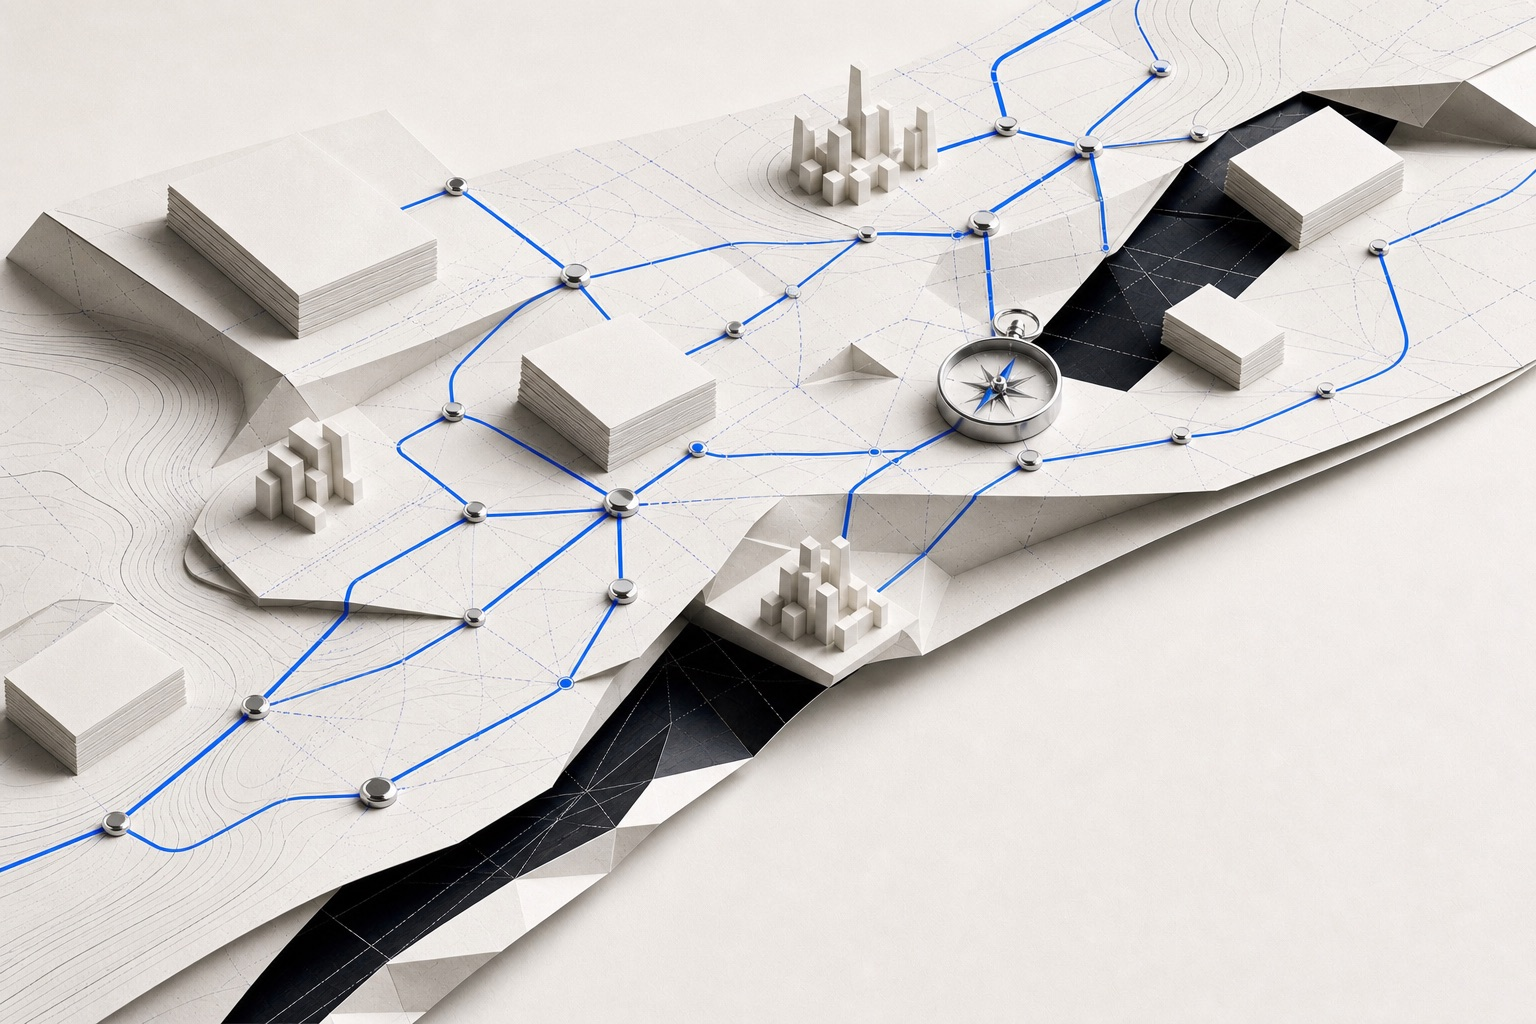
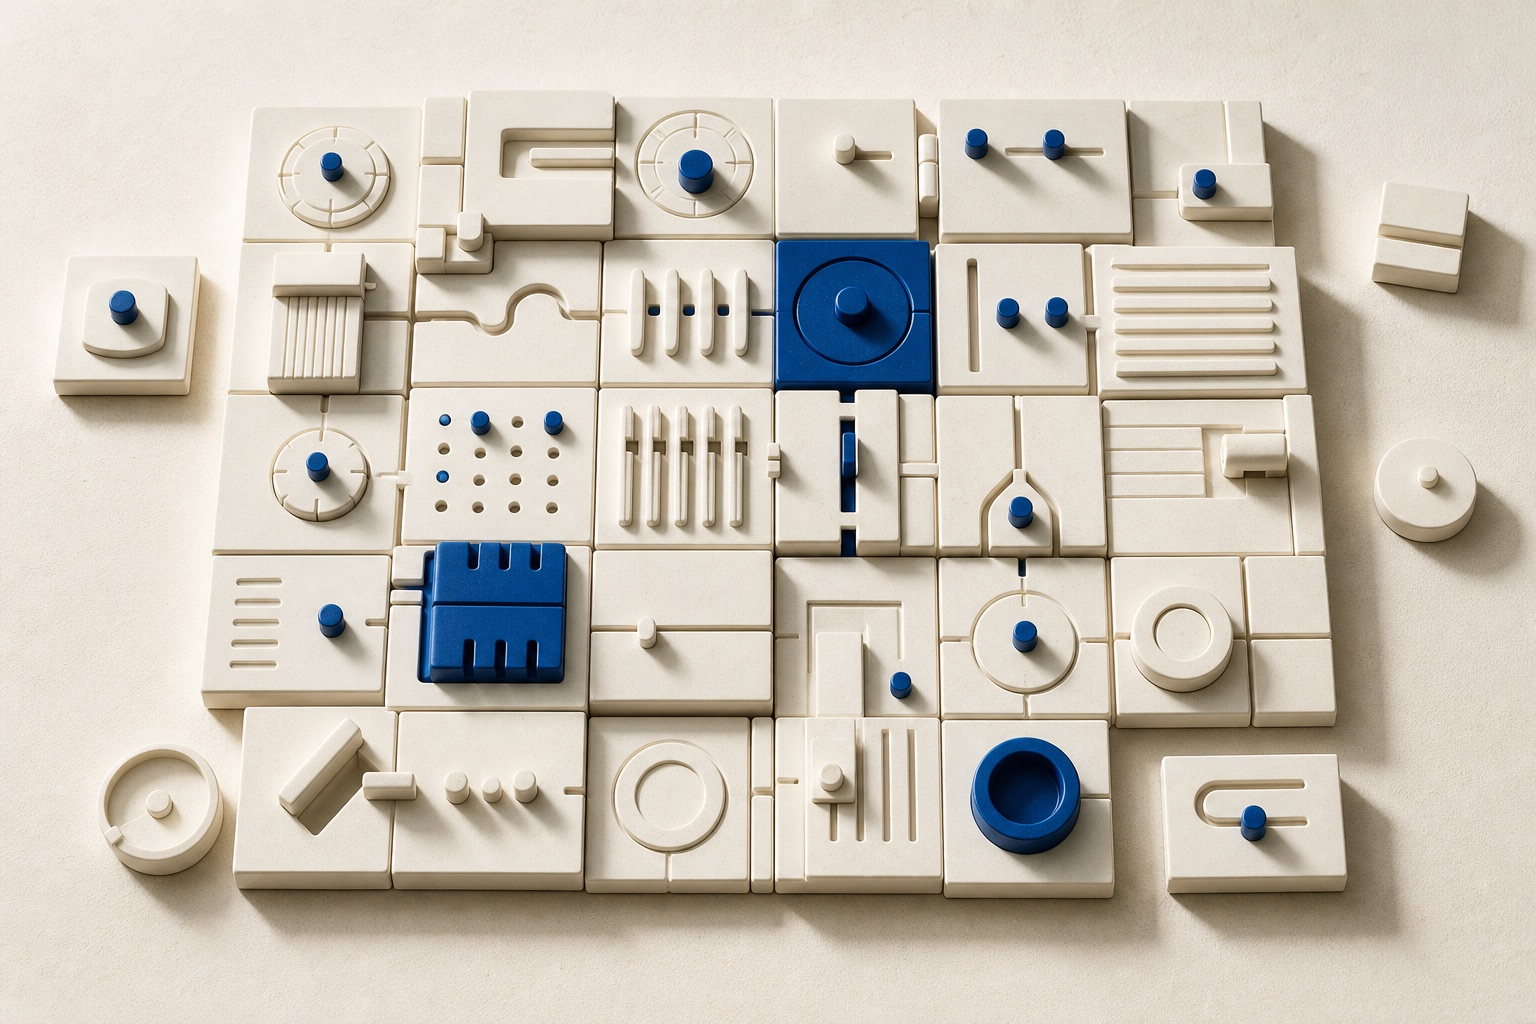
Replace map artwork with distinct editorial visuals

diff --git a/src/client/pages/MarketingDetailPage.tsx b/src/client/pages/MarketingDetailPage.tsx
@@ -407,8 +407,8 @@ export function MarketingDetailPage() {
                   src={editorialImage}
                   alt={
                     section === 'getting-started'
-                      ? 'A blue route climbs through growing paper business districts toward a compass'
-                      : 'An operational paper network linking work, teams, and destinations'
+                      ? 'Chrome spheres progress upward along a monumental cobalt staircase'
+                      : 'A modular field of tactile controls representing a connected operating system'
                   }
                   width="1536"
                   height="1024"
@@ -488,7 +488,7 @@ function PricingContent({ account }: { account: AccountSessionDto | null }) {
       <section className="relative min-h-[500px] overflow-hidden border border-edge bg-sheet px-6 py-10 sm:px-10 sm:py-14">
         <img
           src="/editorial/atlas-growth-journey.jpg"
-          alt="A blue route rises across paper terraces toward a polished compass"
+          alt="Chrome spheres progress upward along a monumental cobalt staircase"
           width="1536"
           height="1024"
           className="absolute inset-0 h-full w-full object-cover object-center"

diff --git a/src/client/pages/LandingPage.tsx b/src/client/pages/LandingPage.tsx
@@ -121,14 +121,14 @@ export function LandingPage() {
             <figure className="relative min-h-[360px] overflow-hidden border border-edge bg-sheet shadow-[14px_14px_0_var(--color-ink)] sm:min-h-[460px] lg:-mr-10">
               <img
                 src="/editorial/atlas-home-hero.jpg"
-                alt="A sculptural paper map connecting business districts with blue routes and compasses"
+                alt="A cobalt modular filing machine organizing paper through trays and metal rails"
                 width="1536"
                 height="1024"
                 fetchPriority="high"
                 className="absolute inset-0 h-full w-full object-cover object-center transition-transform duration-700 hover:scale-[1.025]"
               />
               <figcaption className="absolute bottom-0 left-0 border-r border-t border-white/35 bg-ink/90 px-4 py-3 font-mono text-[10px] uppercase tracking-[0.12em] text-white/75 backdrop-blur-md">
-                The whole operation · one map
+                Turn moving parts into one system
               </figcaption>
             </figure>
           </motion.div>
